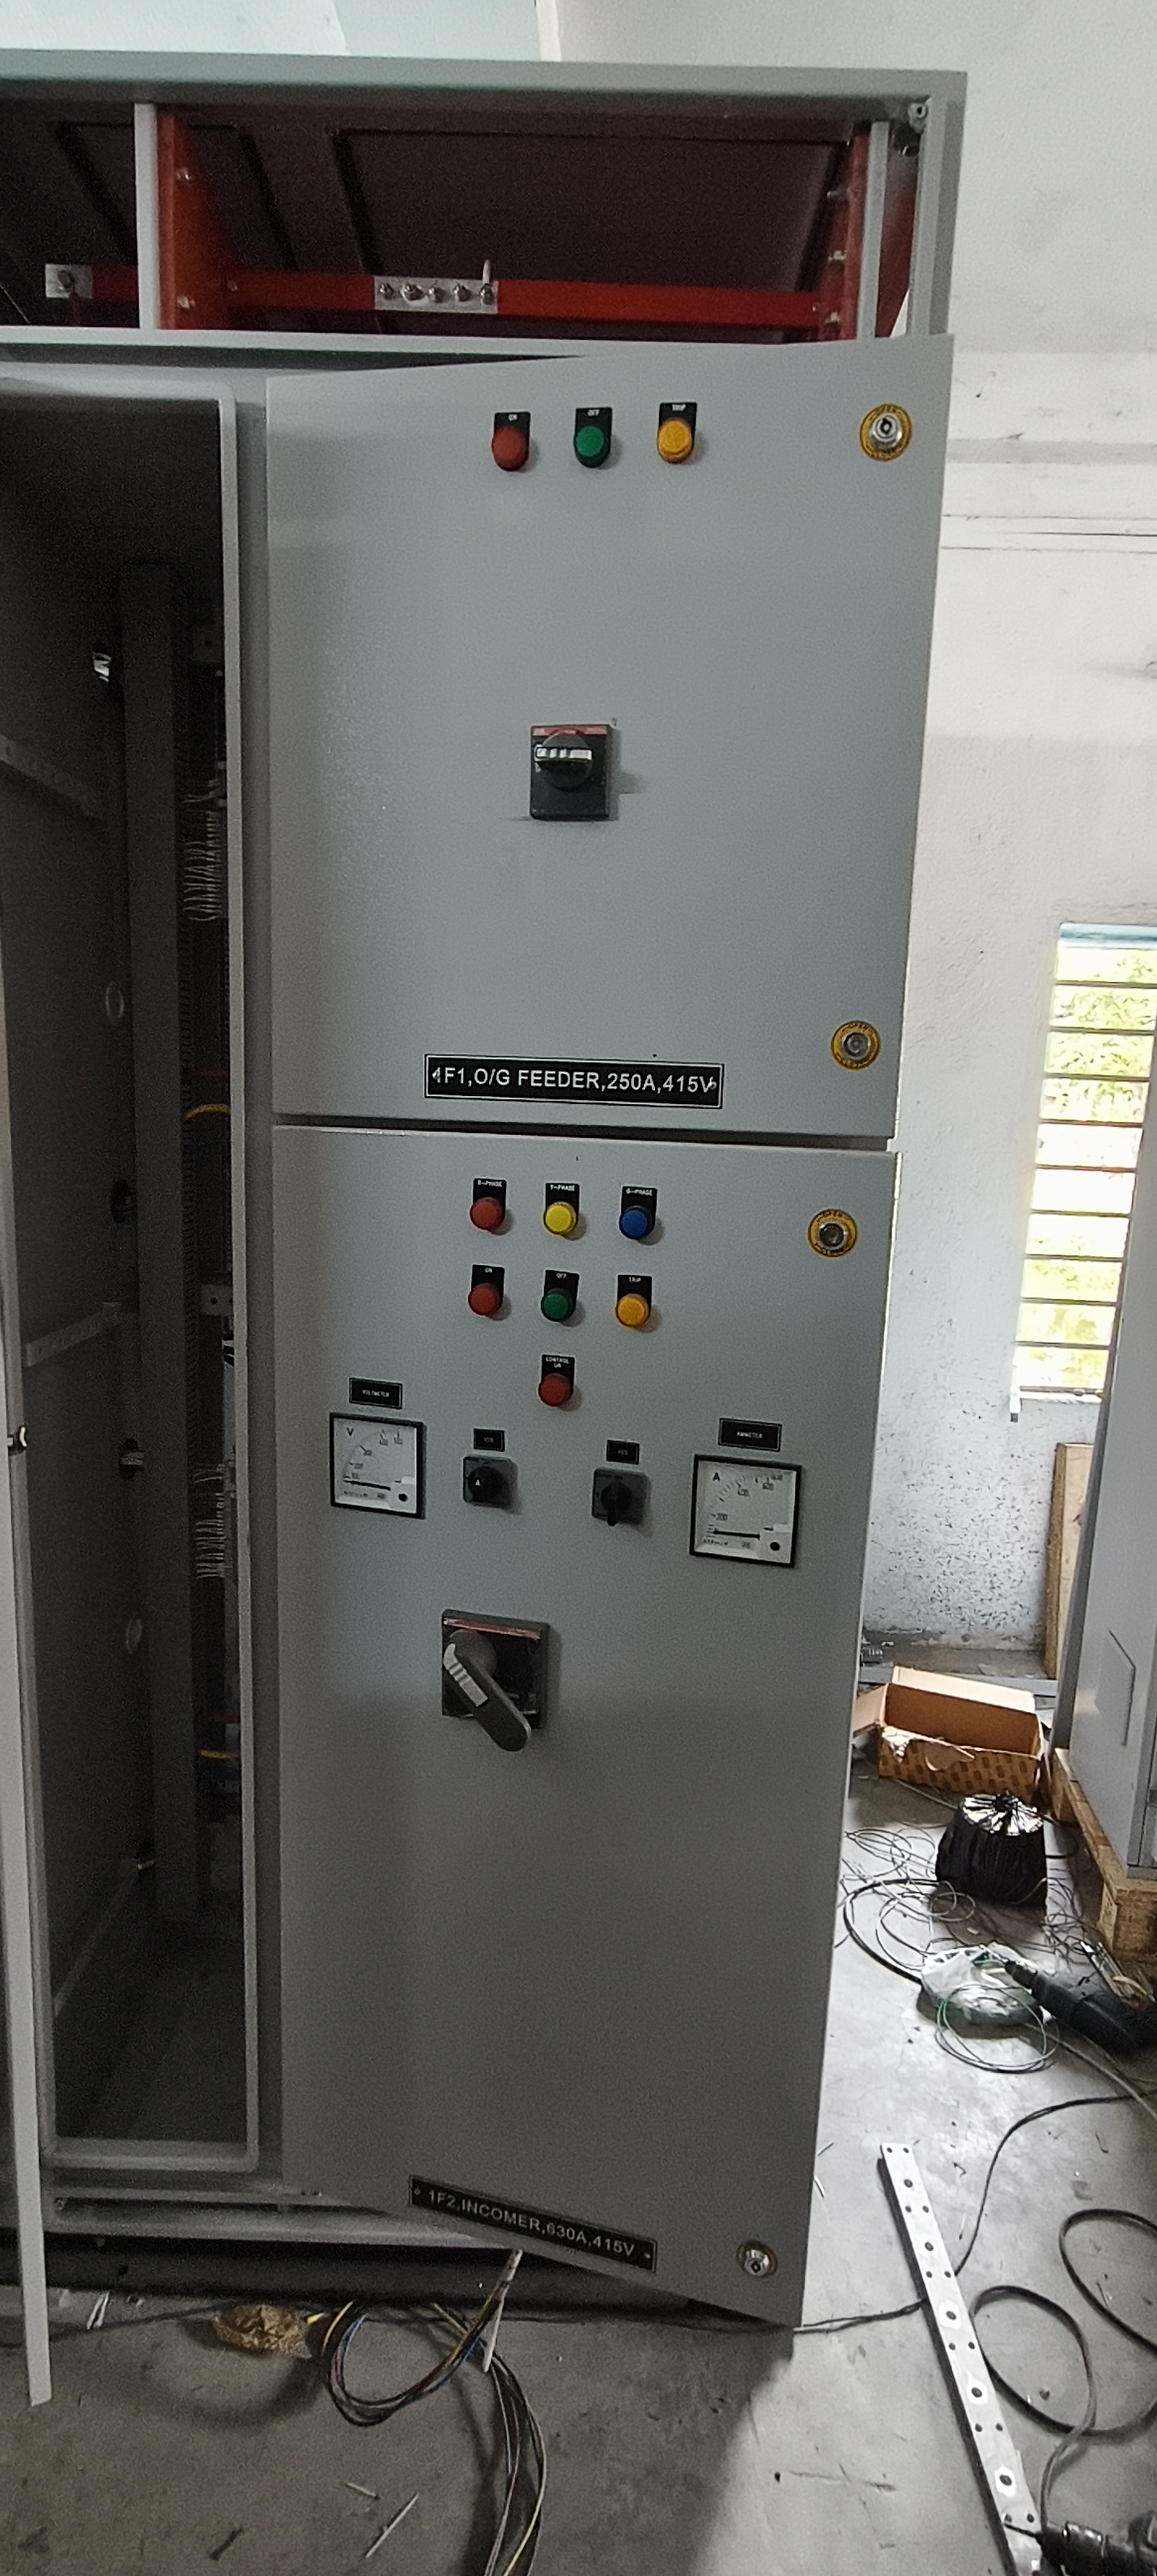
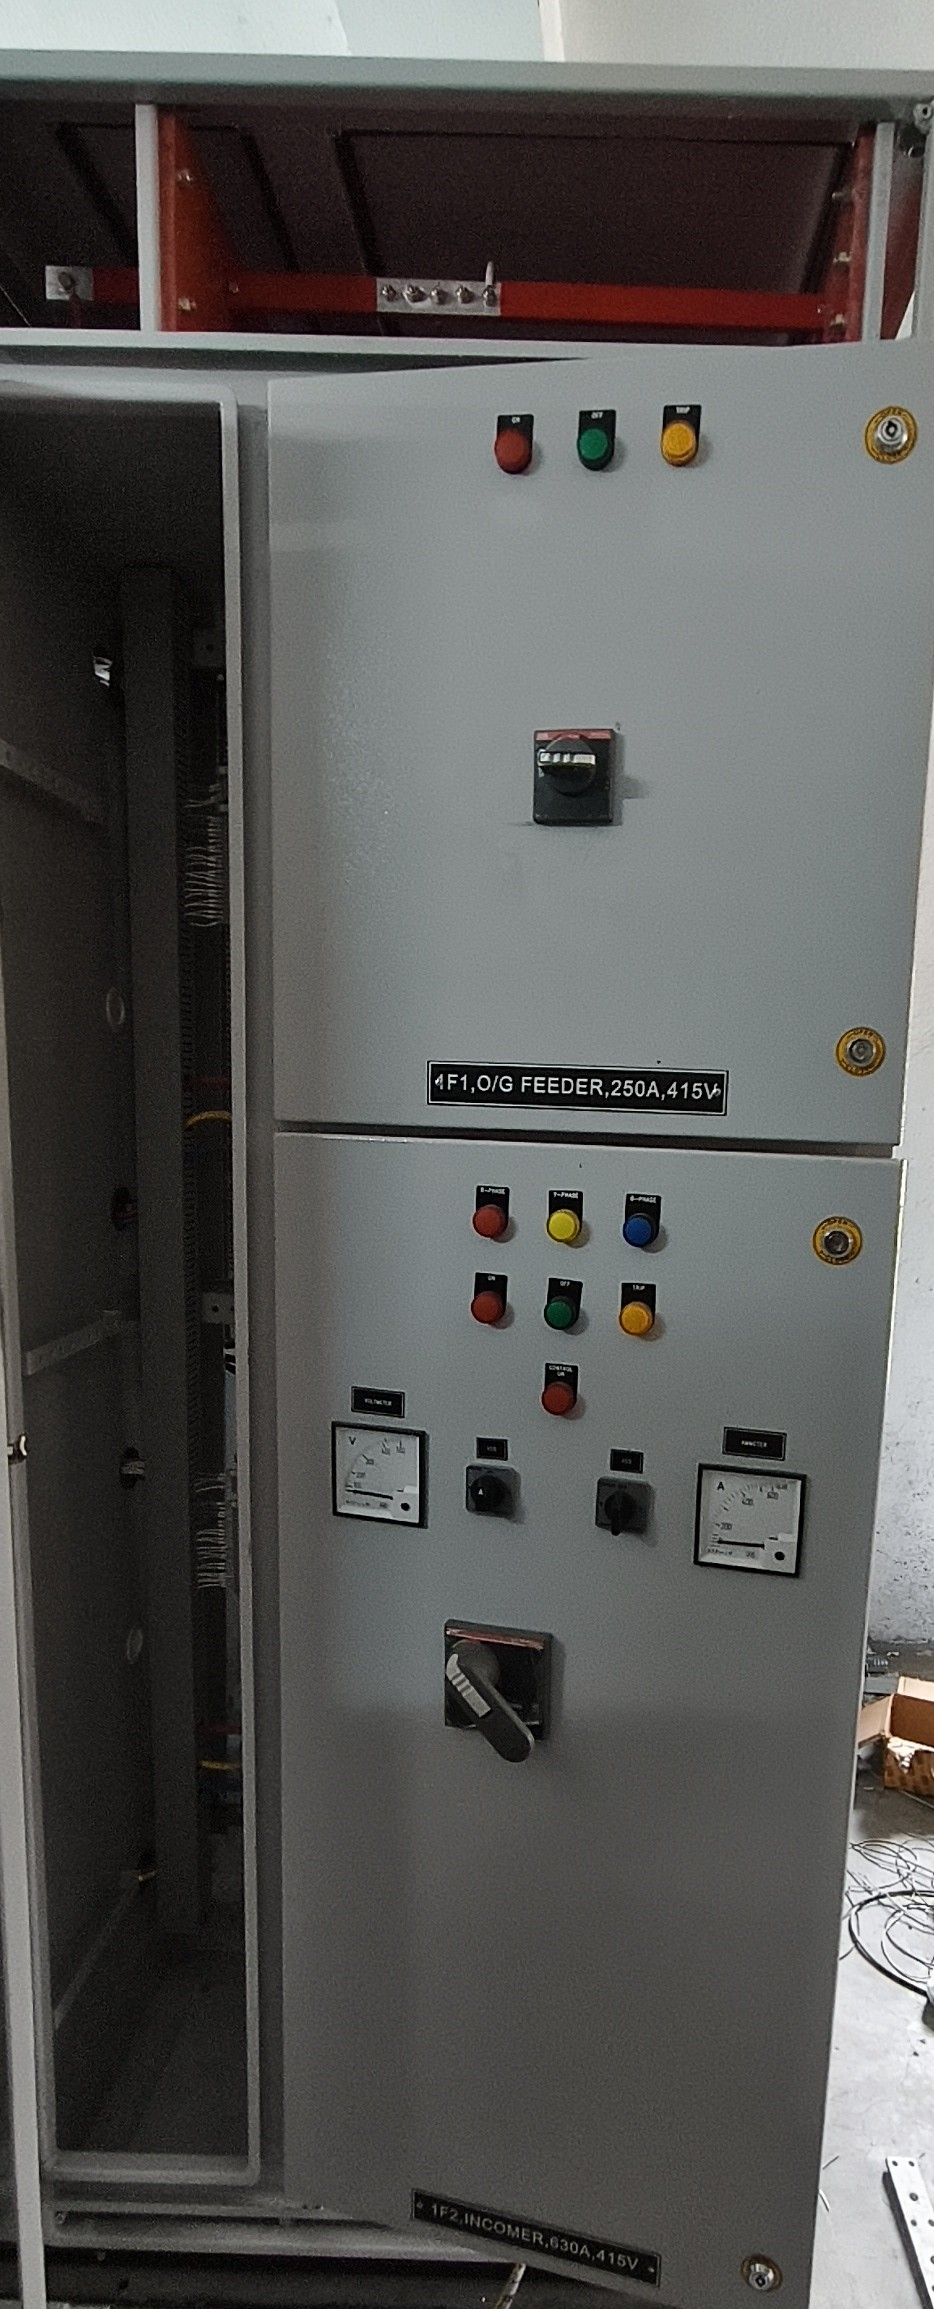
Key features

diff --git a/client/src/data/projectsData.js b/client/src/data/projectsData.js
@@ -8,10 +8,14 @@ export const projects = [
     image: "/projects/wesman/hero.jpg",
 
     gallery: [
-      "/projects/wesman/gallery1.jpg",
       "/projects/wesman/gallery2.jpg",
       "/projects/wesman/gallery3.jpg",
       "/projects/wesman/gallery4.jpg",
+      "/projects/wesman/gallery5.jpg",
+      "/projects/wesman/gallery6.jpg",
+      "/projects/wesman/gallery7.jpg",
+      "/projects/wesman/gallery8.jpg",
+      "/projects/wesman/gallery9.jpg",
     ],
 
     shortDesc: "Industrial furnace and thermal process automation.",
@@ -24,7 +28,7 @@ export const projects = [
         title: "PLC Automation",
         items: [
           "SIEMENS & Rockwell PLC",
-          "Auto Furnace",
+          "Auto Furnace Control",
           "Batch Start / Stop",
           "PID Control",
           "Digital & Analog I/O",